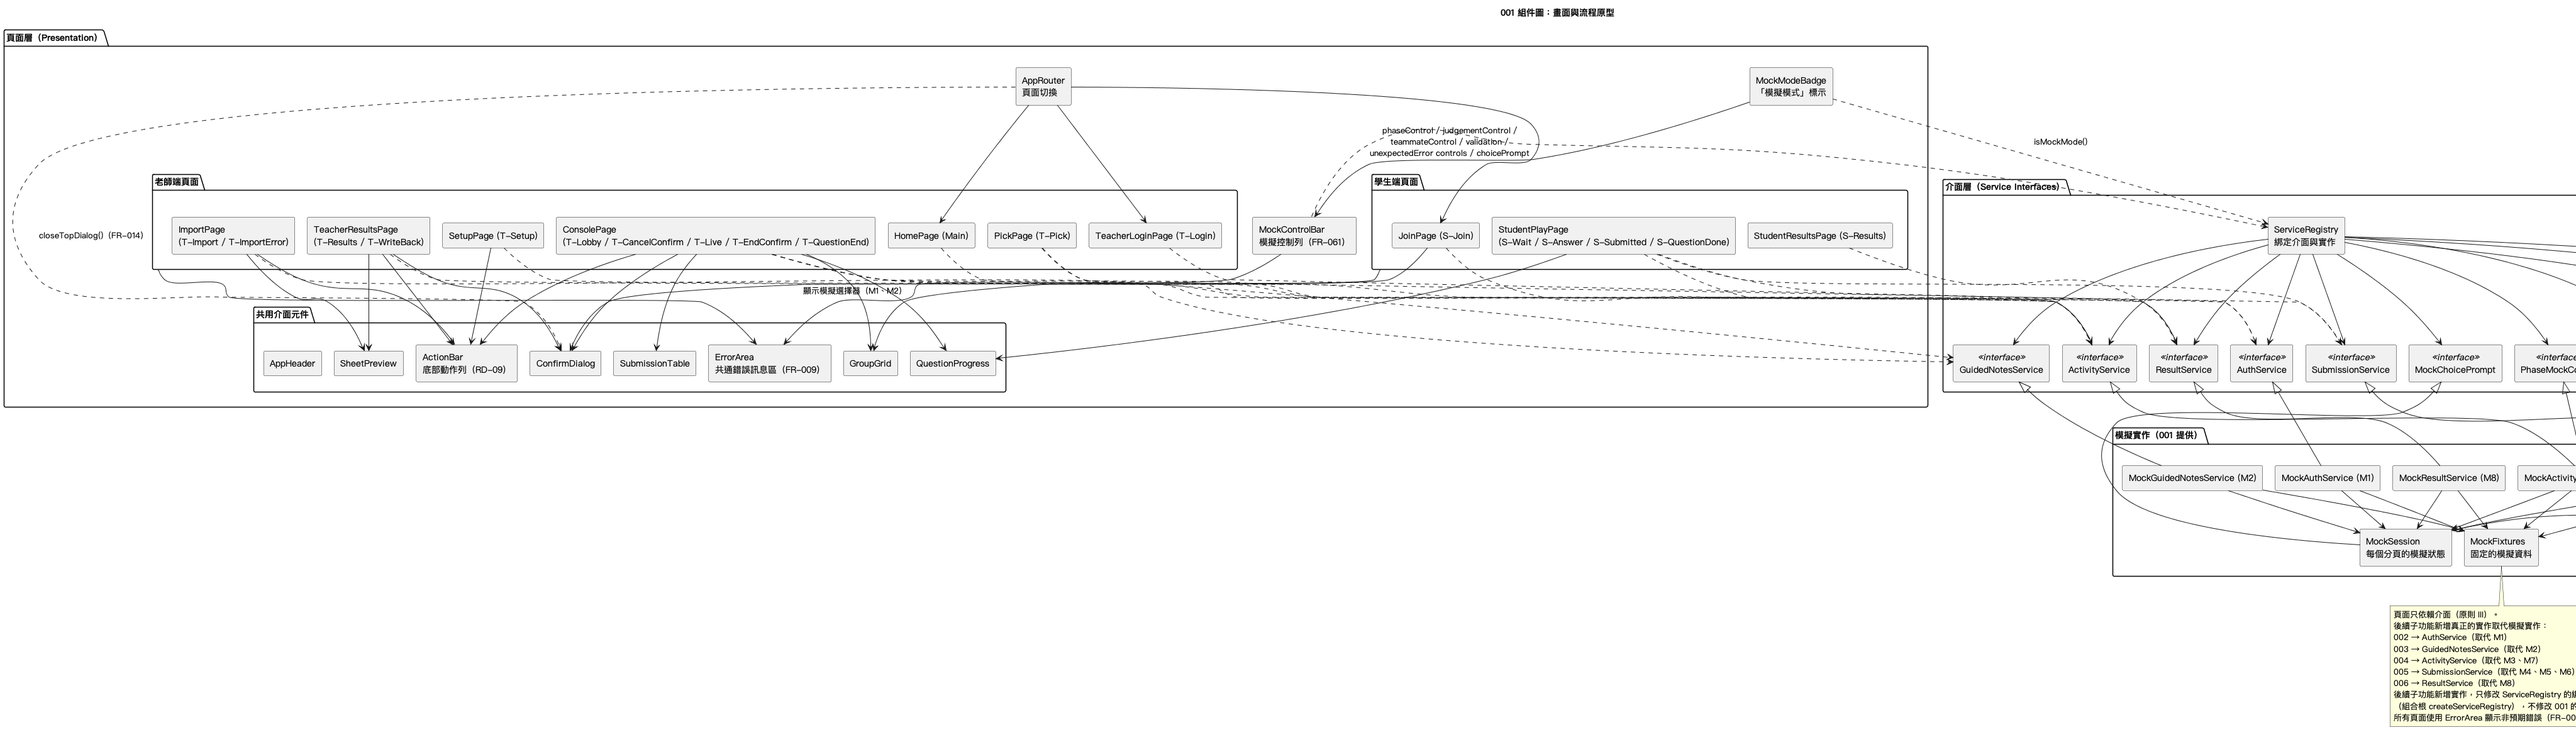
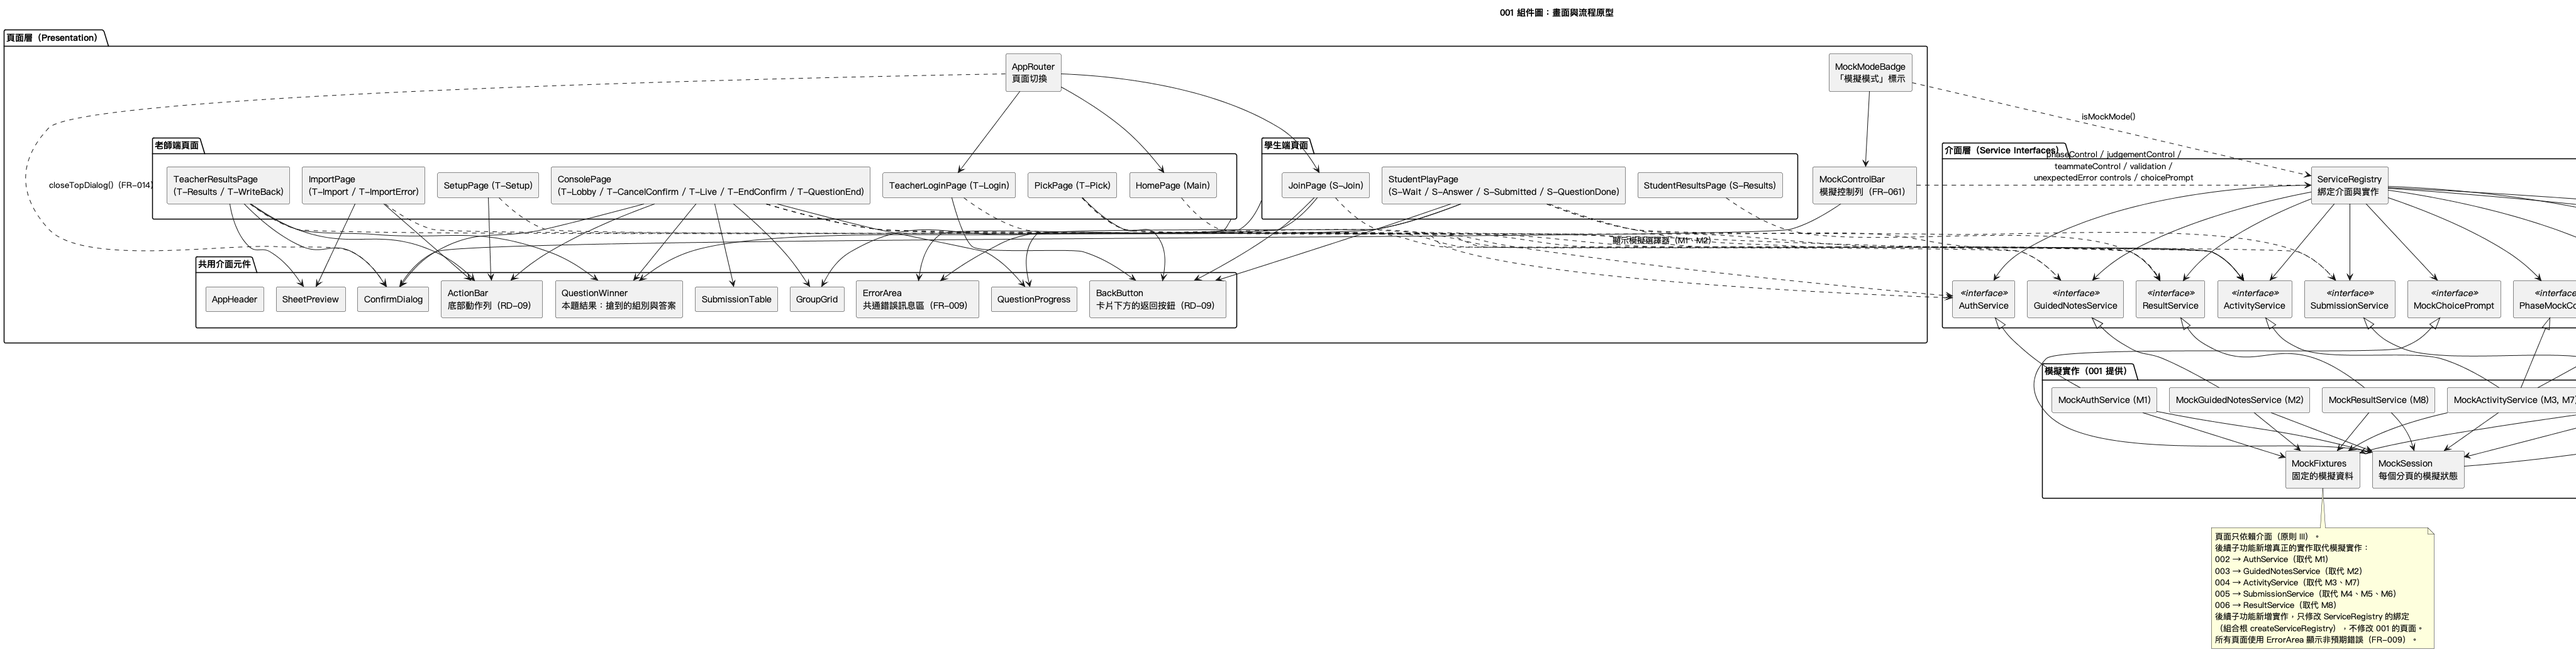
spec(001): add shared back button and winner components
The T101 review found four places where the same UI element or helper
is written more than once, which Principle IX does not allow. The
diagram has to show the two new shared components before the code
changes (Diagram First); errorMessage and the question count heading
are plain functions, so they are not drawn.

- tasks.md: add T101a to extract the duplicates without changing
  behavior or tests. errorMessage covers all ten pages that turn an
  error into text, not only the four with a local copy, and the
  student pages keep the green group name when their own group wins.
- Component diagram: add BackButton (TeacherLoginPage, PickPage,
  JoinPage, StudentPlayPage) and QuestionWinner (ConsolePage,
  StudentPlayPage, TeacherResultsPage), and regenerate the PNG.

Refs: T101, T101a, 原則 IX

diff --git a/specs/001-ui-prototype/tasks.md b/specs/001-ui-prototype/tasks.md
@@ -384,6 +384,7 @@ T012、T014、T015、T020、T021、T023、T024、T025、T028、T029、T031、T03
 
 - [X] T100 [P] 確認 ESLint 規則有效：暫時在任一頁面加入 `import ... from '../services/mock/MockFixtures'`，`npm run lint` 應報錯，確認後移除（原則 III）
 - [ ] T101 [P] 檢查 `frontend/src/`、`shared/src/` 中的註解與命名皆為英文、同一介面元素沒有重複實作（原則 IX）
+- [ ] T101a 抽出 T101 找到的重複實作，行為不變、不修改 `tests/`：`errorMessage()` 移到共用模組，所有轉換錯誤訊息的頁面都改用它（HomePage、TeacherLoginPage、PickPage、ImportPage、SetupPage、ConsolePage、TeacherResultsPage、JoinPage、StudentPlayPage、StudentResultsPage）；卡片下方的返回按鈕抽成 `frontend/src/components/BackButton.tsx`（TeacherLoginPage、PickPage、JoinPage、StudentPlayPage）；本題結果抽成 `frontend/src/components/QuestionWinner.tsx`，統一三頁的樣式（ConsolePage、StudentPlayPage、TeacherResultsPage）；學生頁面在本組搶到時組名維持綠色；「第 n 題 / 共 m 題」改用 `questionLabels.ts` 的函式（ConsolePage、StudentPlayPage）（原則 IX）
 - [ ] T102 依 `quickstart.md` 從乾淨環境執行 `npm install`、`npx playwright install chromium`、`npm run typecheck`、`npm run lint`、`npm test`、`npm run test:e2e`，回報每個指令與結果（原則 VIII）
 - [ ] T103 確認 `manual-verification.md` 已涵蓋 quickstart Q1–Q14 且每個 User Story 至少一筆紀錄
 
